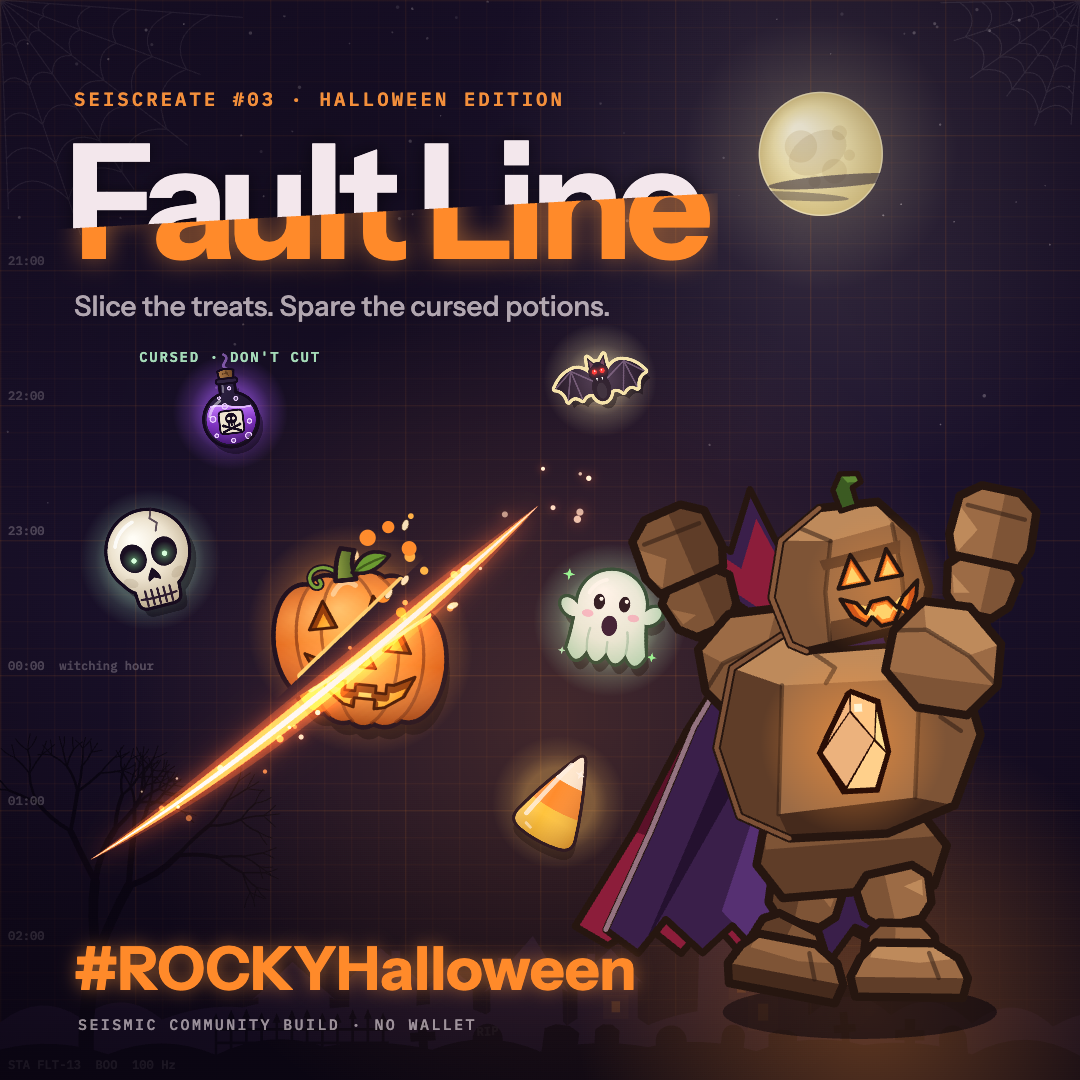
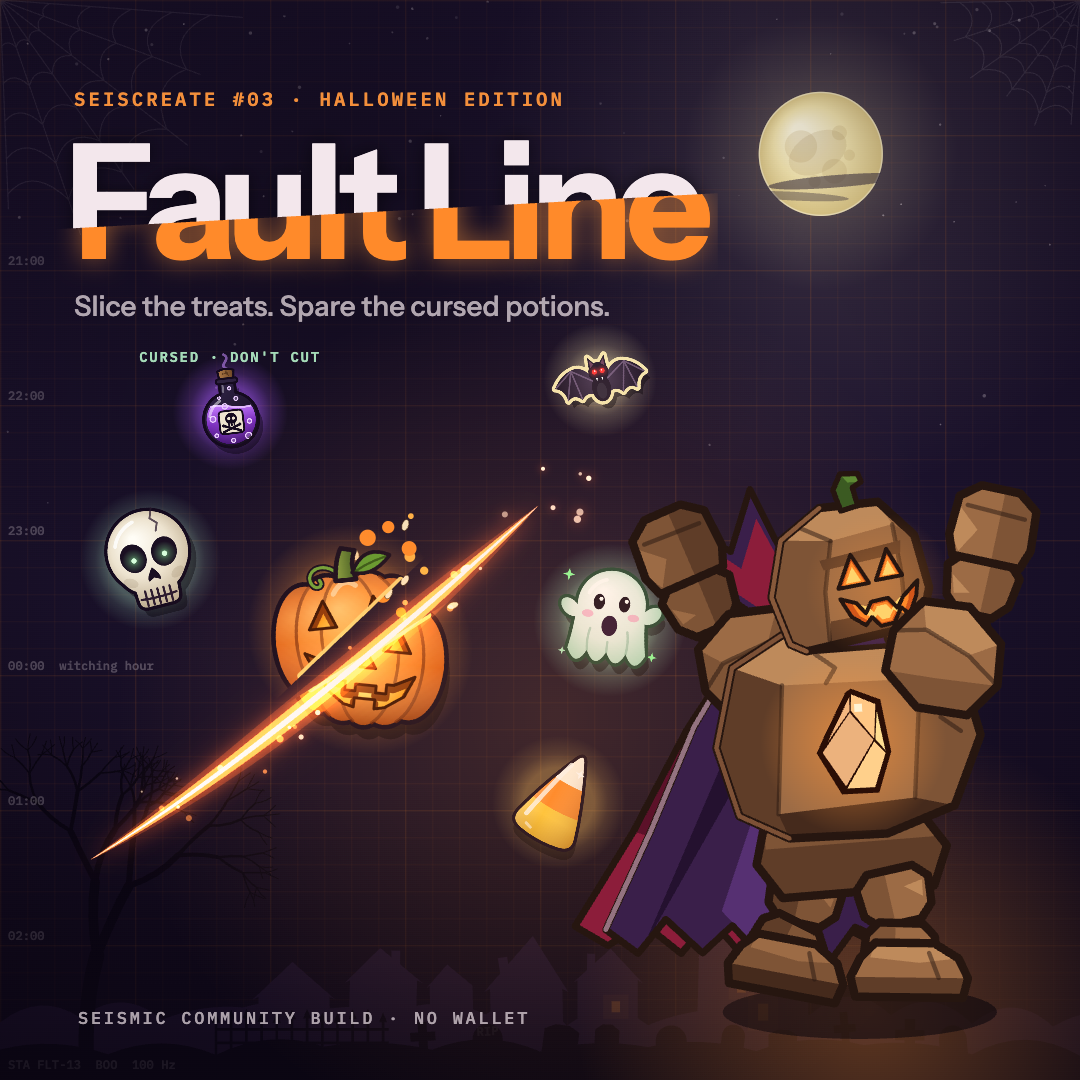
Posters without the hashtag

Changed region(s): [[0.0611, 0.8556, 0.6111, 0.9778]]

diff --git a/design/halloween.html b/design/halloween.html
@@ -13,7 +13,7 @@
 </style>
 </head>
 <body>
-<div class="bar">The #ROCKYHalloween poster for Fault Line, drawn from the game's own code (night sheet, treats, Jack-o'-Rocky). Open through <code>node serve.mjs</code> with <code>?theme=halloween</code>; <code>window.__saveAll()</code> writes the files.</div>
+<div class="bar">The Halloween poster for Fault Line, drawn from the game's own code (night sheet, treats, Jack-o'-Rocky). Open through <code>node serve.mjs</code> with <code>?theme=halloween</code>; <code>window.__saveAll()</code> writes the files.</div>
 <div class="grid" id="grid"></div>
 <script type="module">
   import { HW } from '../src/theme.js';
@@ -210,10 +210,7 @@
       wordmark(g, 'Fault Line', 84, 290, 168);
       g.font = '500 30px "Instrument Sans", sans-serif'; g.fillStyle = HW.inkSoft; g.textAlign = 'left';
       g.fillText('Slice the treats. Spare the cursed potions.', 92, 360);
-      g.font = '700 64px "Instrument Sans", sans-serif'; g.fillStyle = HW.pumpkin;
-      g.shadowColor = `rgba(${HW.ember},0.55)`; g.shadowBlur = 18;
-      g.fillText('#ROCKYHalloween', 92, 838); g.shadowBlur = 0;
-      mono(g, 'SEISMIC COMMUNITY BUILD · NO WALLET', 96, 870, 16, 'rgba(243,231,236,0.6)', 0.16, 500);
+      mono(g, 'SEISMIC COMMUNITY BUILD · NO WALLET', 96, 858, 18, 'rgba(243,231,236,0.68)', 0.16, 500);
     } else {
       wash(g, 340, 230, 460, 0.6);
       const cx = 360, cy = 640;
@@ -231,10 +228,7 @@
       wordmark(g, 'Fault Line', 66, 252, 150);
       g.font = '500 28px "Instrument Sans", sans-serif'; g.fillStyle = HW.inkSoft; g.textAlign = 'left';
       g.fillText('Slice the treats. Spare the cursed potions.', 74, 316);
-      g.font = '700 60px "Instrument Sans", sans-serif'; g.fillStyle = HW.pumpkin;
-      g.shadowColor = `rgba(${HW.ember},0.55)`; g.shadowBlur = 18;
-      g.fillText('#ROCKYHalloween', 74, 990); g.shadowBlur = 0;
-      mono(g, 'SEISMIC COMMUNITY BUILD · NO WALLET', 78, 1030, 15, 'rgba(243,231,236,0.6)', 0.16, 500);
+      mono(g, 'SEISMIC COMMUNITY BUILD · NO WALLET', 78, 1024, 17, 'rgba(243,231,236,0.68)', 0.16, 500);
     }
   }
 
